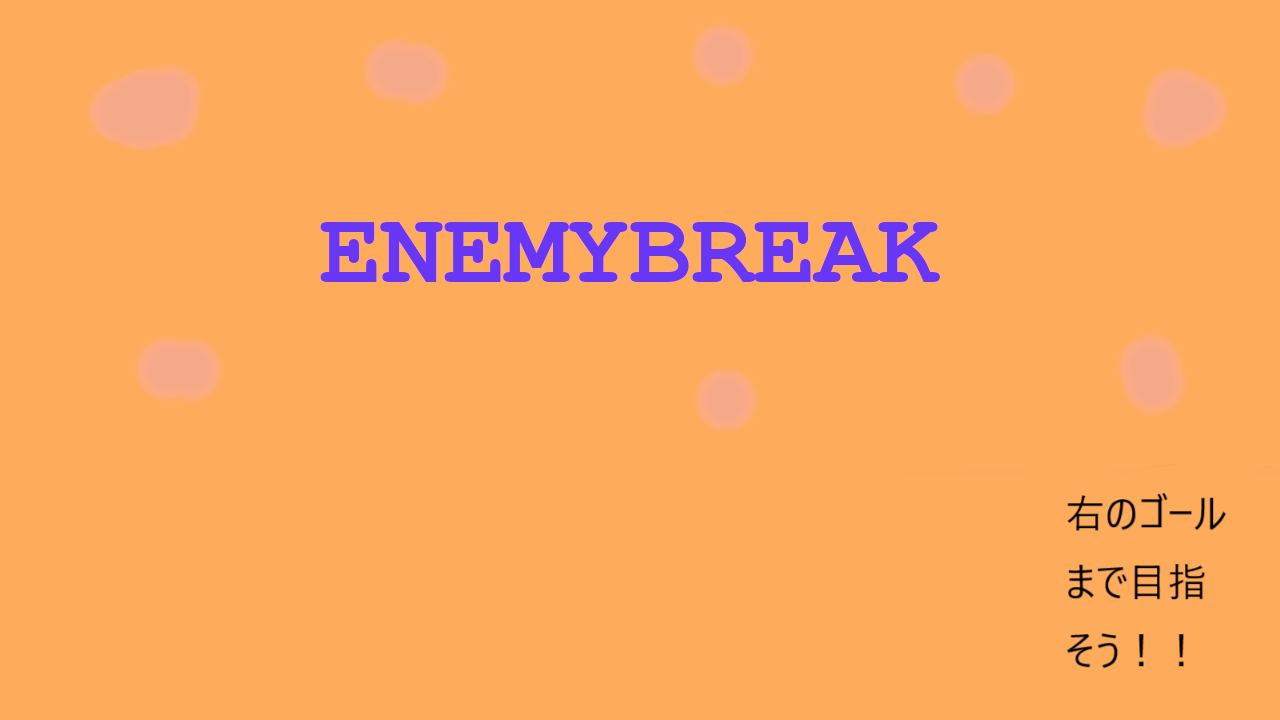
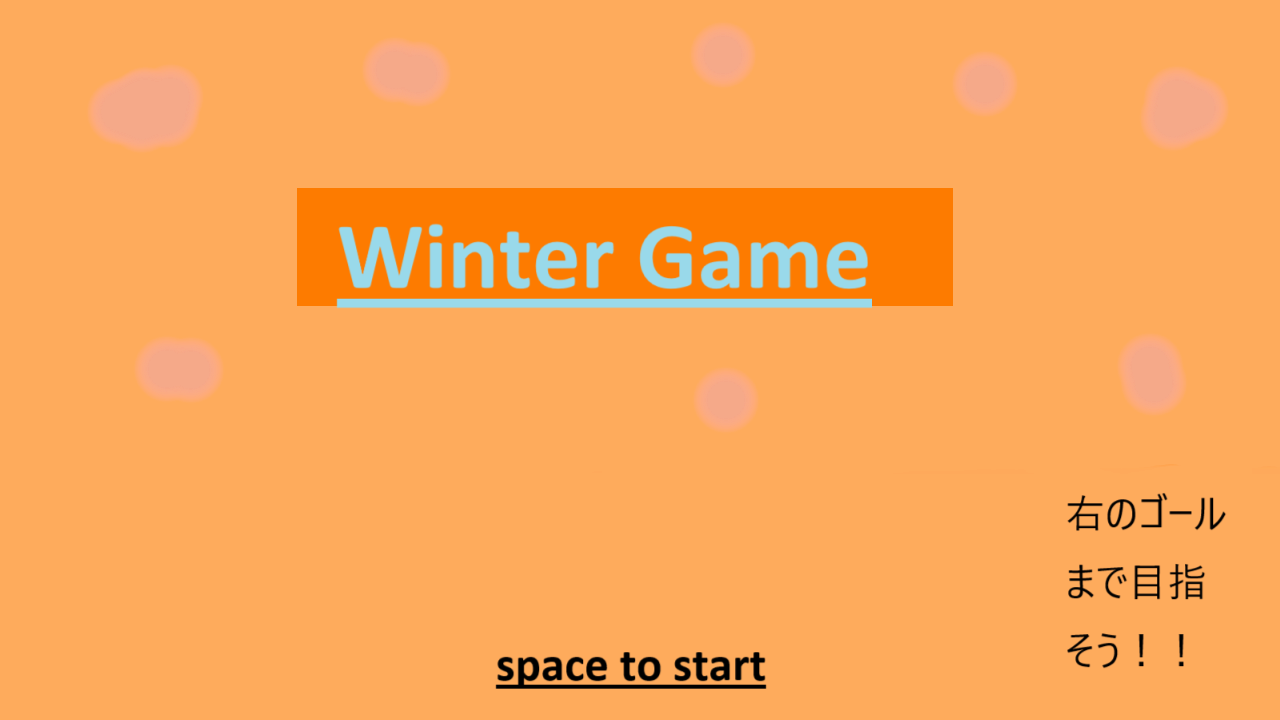
AL４提出完

Changed region(s): [[0.2188, 0.2444, 0.75, 0.4278], [0.375, 0.8861, 0.5938, 0.9778]]

diff --git a/main.cpp b/main.cpp
@@ -146,7 +146,7 @@ int WINAPI WinMain(_In_ HINSTANCE, _In_opt_ HINSTANCE, _In_ LPSTR, _In_ int) {
 	// ゲームシーンのインスタンス生成
 
 	// エンジンの初期化
-	KamataEngine::Initialize(L"LE2D_08_オオノ_ユウキ_ENEMYBREAK");
+	KamataEngine::Initialize(L"LE2D_08_オオノ_ユウキ_WinterGame");
 	// 最初のシーンの初期化
 	scene = Scene::kTitle;
 	titleScene = new TitleScene;
